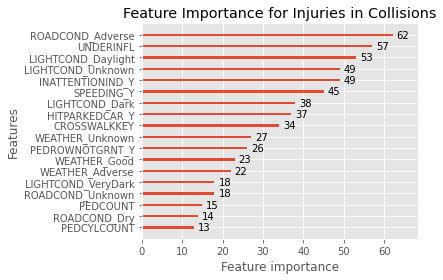
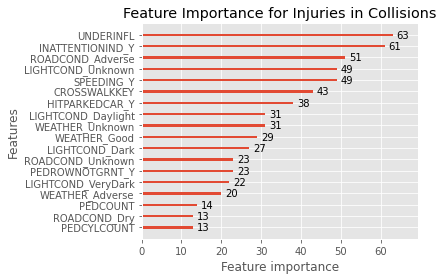
adding combined importances

diff --git a/reports/Weekly_Updates.md b/reports/Weekly_Updates.md
@@ -25,7 +25,7 @@ Completed tasks for this week:
 - 90% of collisions involving pedestrians or cyclists resulted in an injury.
 - 27% of collisions NOT involving pedestrians or cyclists resulted in an injury.
 
-![feature0]
+![feature0](figures/combined_importances_lgb.png)
 ![feature1](figures/lightgbm_importance_allcoll.png)
 ![feature2](figures/lightgbm_importance_ped_cyclist.png)
 ![feature3](figures/lightgbm_importance_caronly.png)
